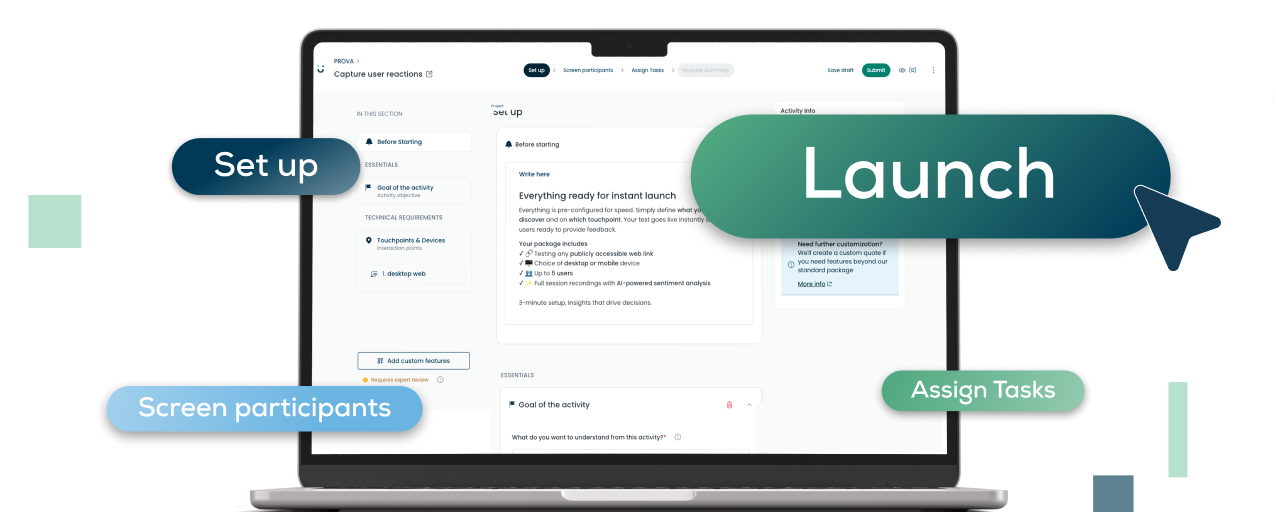
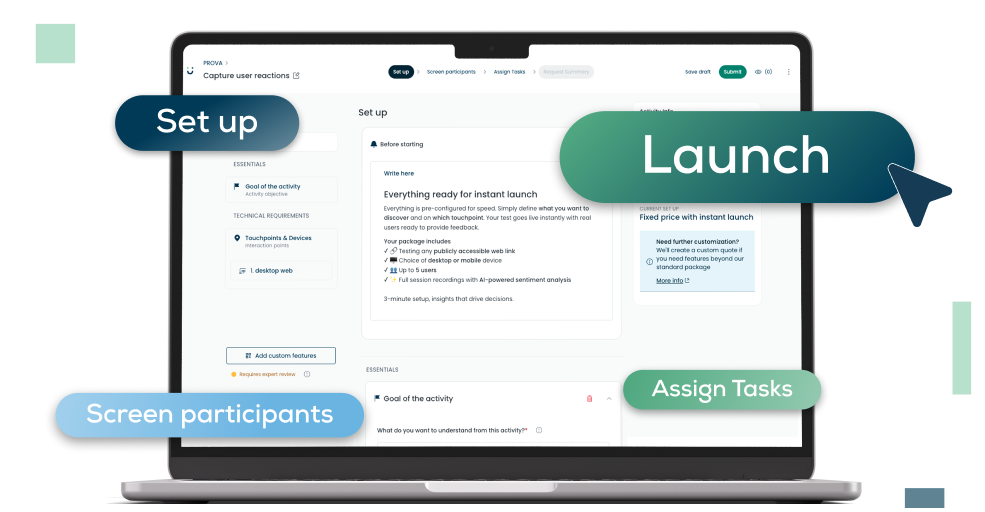
feat: update styling for ConfirmStepWrapper and add tests for email confirmation step dimensions

diff --git a/tests/e2e/join/index.spec.ts b/tests/e2e/join/index.spec.ts
@@ -138,6 +138,25 @@ test.describe('The Join page signup step - case new user', () => {
     ).toBeVisible();
   });
 
+  test('the email confirmation step is 415px wide on desktop and padded on mobile', async ({
+    page,
+  }) => {
+    await signupPage.mockCognitoConfirmSignup();
+    await signupPage.fillValidSignupForm();
+    await signupPage.submitSignupForm();
+    await expect(
+      signupPage.confirmEmailFormElements().codeInput()
+    ).toBeVisible();
+
+    const step = page.getByTestId('confirm-email-step');
+    const desktopBox = await step.boundingBox();
+    expect(Math.round(desktopBox!.width)).toBe(415);
+
+    await page.setViewportSize({ width: 375, height: 812 });
+    const padding = await step.evaluate((el) => getComputedStyle(el).padding);
+    expect(padding).toBe('40px 20px');
+  });
+
   test('displays an enabled Continue with Google button', async () => {
     await expect(signupPage.signupFormElements().googleButton()).toBeVisible();
     await expect(signupPage.signupFormElements().googleButton()).toBeEnabled();
@@ -168,6 +187,23 @@ test.describe('The Join page second step', () => {
 
     await join.openOnboarding();
   });
+  test('keeps the 40px top/bottom padding on the form column on desktop', async ({
+    page,
+  }) => {
+    const padding = await page
+      .locator('input[name="name"]')
+      .evaluate((input) => {
+        let el = input.parentElement;
+        while (el) {
+          const cs = getComputedStyle(el);
+          if (cs.flexBasis === '415px') return cs.padding;
+          el = el.parentElement;
+        }
+        return 'not found';
+      });
+    expect(padding).toBe('40px 0px');
+  });
+
   test('display required inputs for name, surname, job role and company size dropdowns populated from api userRole and companySize', async ({
     page,
     i18n,

diff --git a/src/pages/JoinPage/SignupPage/index.tsx b/src/pages/JoinPage/SignupPage/index.tsx
@@ -52,15 +52,25 @@ const CenteredContent = styled.div`
   justify-content: center;
 `;
 
+const ConfirmStepWrapper = styled.div`
+  width: 415px;
+  max-width: 100%;
+
+  @media (max-width: ${({ theme }) => theme.breakpoints.md}) {
+    width: 100%;
+    padding: ${({ theme }) => `${theme.space.xl} ${theme.space.md}`};
+  }
+`;
+
 const LeftColumn = styled.div`
   flex: 0 0 415px;
   display: flex;
   flex-direction: column;
   justify-content: center;
+  padding: ${({ theme }) => `${theme.space.xl} 0`};
 
   @media (max-width: ${({ theme }) => theme.breakpoints.md}) {
     flex: 1;
-    padding: ${({ theme }) => `${theme.space.xl} 0`};
   }
 `;
 
@@ -103,7 +113,9 @@ const SignupPage = () => {
     if (needsConfirmation) {
       return (
         <CenteredContent>
-          <ConfirmEmailForm email={userEmail} password={userPassword} />
+          <ConfirmStepWrapper data-qa="confirm-email-step">
+            <ConfirmEmailForm email={userEmail} password={userPassword} />
+          </ConfirmStepWrapper>
         </CenteredContent>
       );
     }

diff --git a/src/pages/JoinPage/OnboardingPage/index.tsx b/src/pages/JoinPage/OnboardingPage/index.tsx
@@ -64,10 +64,10 @@ const LeftColumn = styled.div`
   display: flex;
   flex-direction: column;
   justify-content: center;
+  padding: ${({ theme }) => `${theme.space.xl} 0`};
 
   @media (max-width: ${({ theme }) => theme.breakpoints.md}) {
     flex: 1;
-    padding: ${({ theme }) => `${theme.space.xl} 0`};
   }
 `;
 